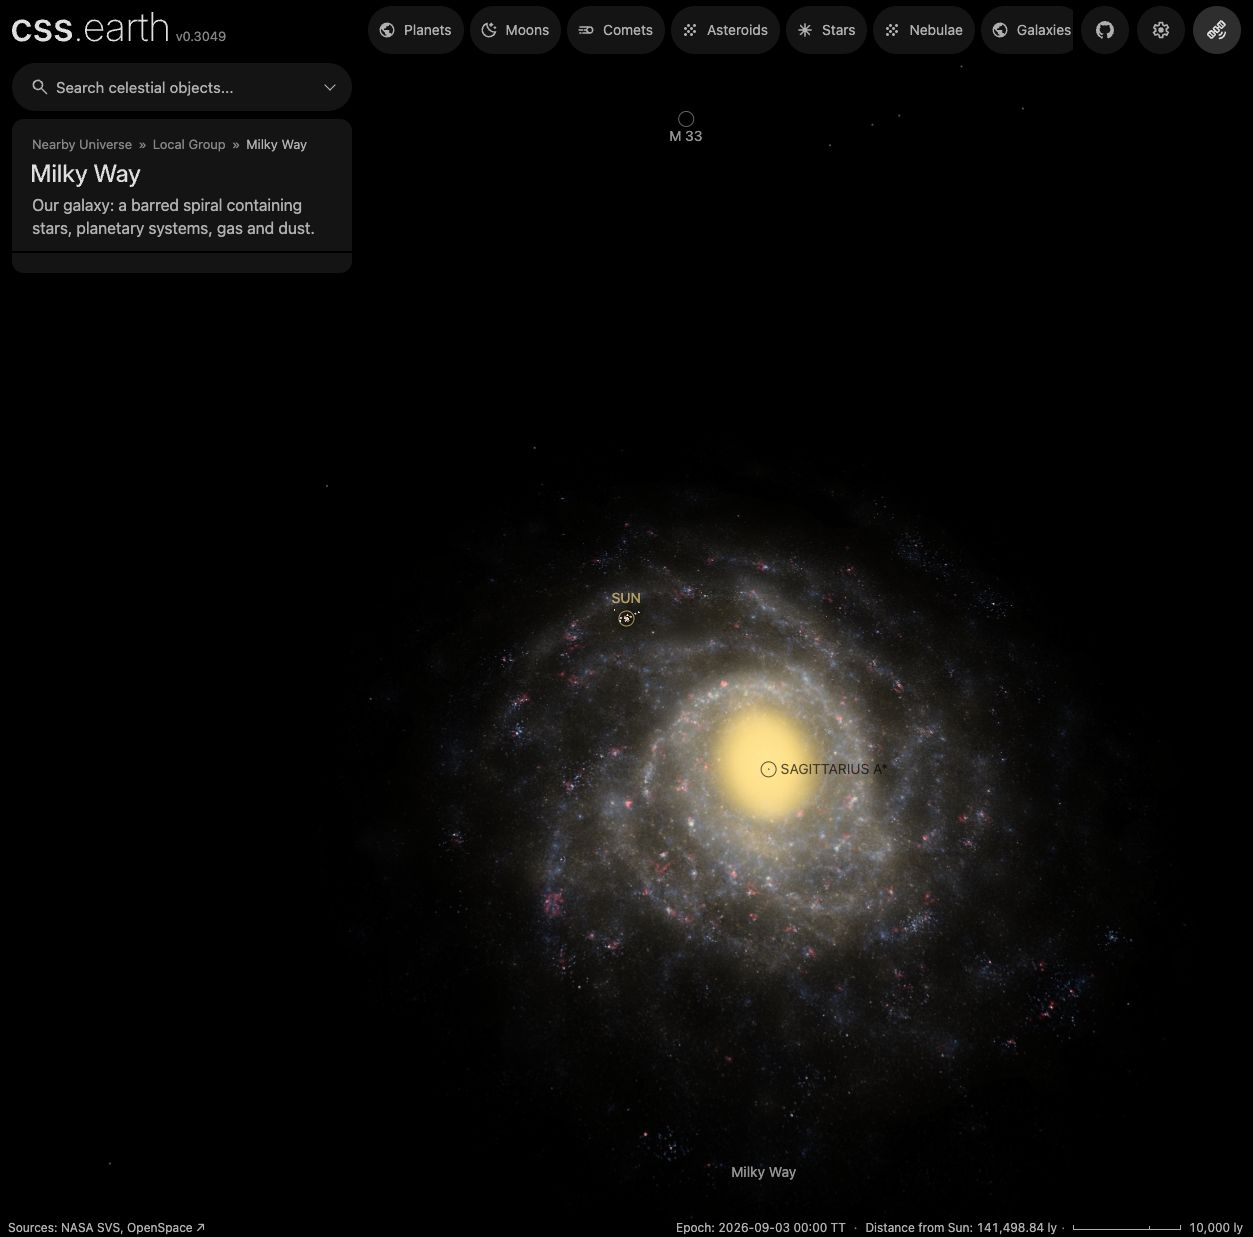
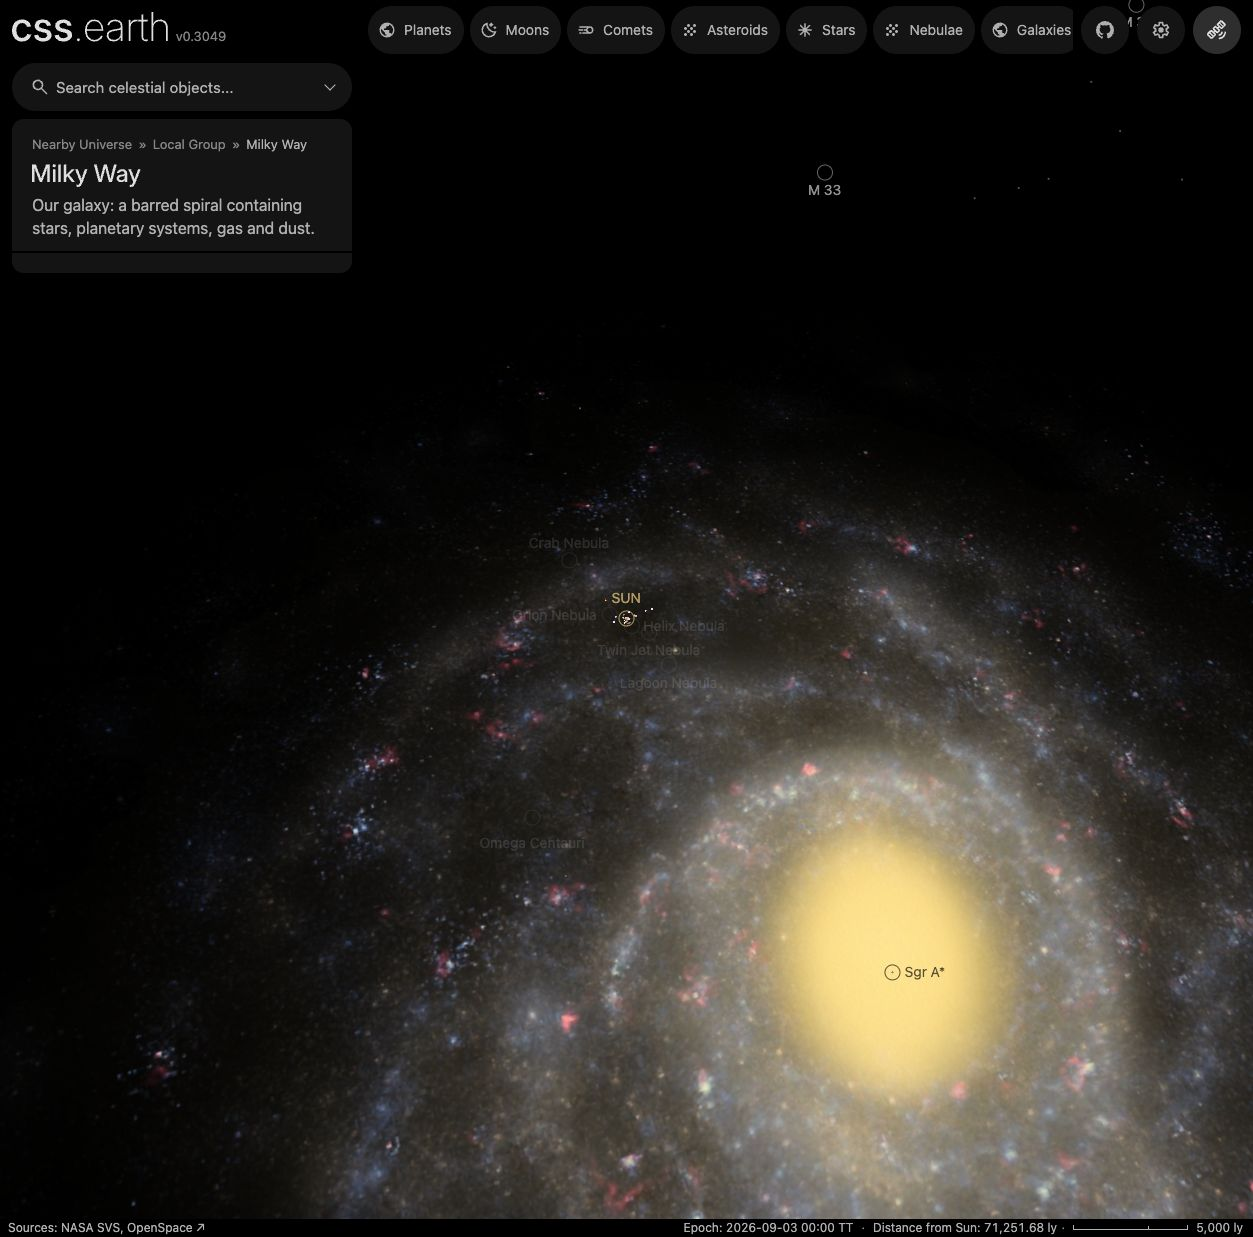
fix(ui): shorten the Galactic-centre label to Sgr A*

diff --git a/src/renderers/css/styles/world-context.css b/src/renderers/css/styles/world-context.css
@@ -185,3 +185,7 @@
 .prepared-world-context [data-context-body="sgr-a-star"]::after {
   color: #000;
 }
+.prepared-world-context [data-context-body="sgr-a-star"]::after {
+  content: 'Sgr A*';
+  text-transform: none;
+}

diff --git a/docs/object-discovery.md b/docs/object-discovery.md
@@ -185,8 +185,8 @@ An orbit's interior stays available, whatever its size or distance: a projected
 path does not become an opaque rectangle. Physical body occlusion remains
 separate from annotation collisions.
 
-Sagittarius A* uses a black caption and circle for contrast against the bright
-Milky Way bulge.
+Sagittarius A* uses the short caption “Sgr A*” and a black caption and circle
+for contrast against the bright Milky Way bulge. Its accessible name stays full.
 
 Category emphasis applies to the annotation and orbit together; it does not make a
 second visibility decision in CSS. Small circle footprints are allowed to
